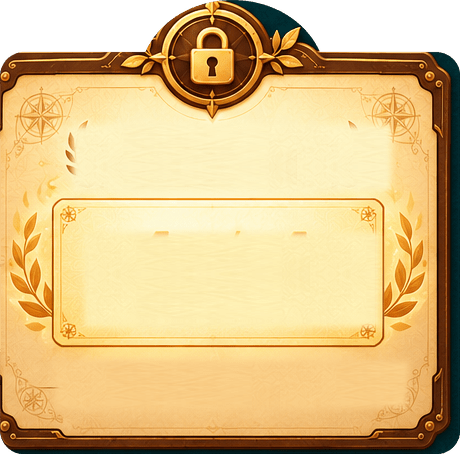
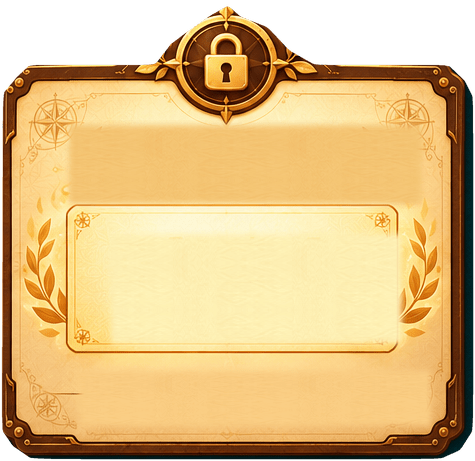
fix(ui): restore result panels and align guess feedback content

diff --git a/assets/scripts/GameApp.ts b/assets/scripts/GameApp.ts
@@ -297,20 +297,20 @@ export class GameApp extends Component {
     const available = this.screenHeight - this.layoutTop - bottomSafeInset() - 24;
     const opponent = event.kind === 'opponent', own = event.kind === 'own';
     // Opponent feedback occupies the opponent seat, above the record sheet.
-    const battleScale = Math.min(750 / 941, (available + 8) / 1590);
+    const battleScale = Math.min(750 / 941, (available + 8) / 1750);
     const group = this.feedbackArt.group(this.effects, 'GuessFeedback', this.screenHeight / 2 - this.layoutTop - (opponent ? 160 * battleScale : available * .29), opponent ? battleScale : Math.min(1, available / 1100));
     if(opponent) { group.setPosition(110*battleScale,group.position.y);group.setScale(battleScale*600/650,battleScale*600/650,1);this.opponentFeedbackActive=true;this.setOpponentSeatVisible(false); }
     const width = own ? 430 : event.kind === 'end' ? 480 : 650;
     if (this.feedbackArt.ready) {
       this.feedbackArt.image(group, event.art, 0, 0, width);
       if (own) {
-        this.feedbackArt.label(group, event.title, 0, -94, 335, 50, 29);
-        const value = this.feedbackArt.label(group, pending ? '···' : `${event.hits} / 4`, 0, 40, 310, 100, 68);
+        this.feedbackArt.label(group, event.title, 0, -52, 335, 50, 34).isBold=true;
+        const value = this.feedbackArt.label(group, pending ? '···' : `${event.hits} / 4`, 0, 50, 310, 112, 80);
         value.font = this.friendDigitFont ?? null;
-        this.feedbackArt.label(group, event.caption, 0, 126, 354, 58, 22);
+        this.feedbackArt.label(group, event.caption, 0, 158, 330, 38, 22);
       } else if (opponent) {
         const peer = this.net.state?.room?.players.find(p => p.id !== this.net.state?.me.id);
-        if (peer) this.playerPortrait(group, peer, -230, -15, 92);
+        if (peer) this.playerPortrait(group, peer, -210.6, -7.3, 100, false);
         const value = this.feedbackArt.label(group, `${event.hits} / 4`, 24, -8, 285, 96, 68, event.urgent ? '#751F23' : C.ink);value.font = this.friendDigitFont ?? null;
       } else if (event.kind === 'end') {
         // The fixed success/failure heading remains in the artwork. Overlay actual reason below.
@@ -993,8 +993,8 @@ export class GameApp extends Component {
       art('home',0,860,420,home);return;
     }
     const win=r.result?.winner===me, draw=!r.result?.winner;
-    art(draw?'draw-title':win?'victory-title':'defeat-title',0,win||draw?180:200,draw?550:win?500:750);
-    if((!win&&!draw)||(!r.rematch.includes(me)&&!this.rematchNotice))label(resultCaption(r,me),0,!win&&!draw?318:380,650,50,28).color=new Color(!win&&!draw?C.ink:C.cream);
+    art(draw?'draw-title':win?'victory-title':'defeat-title',0,win?200:draw?180:200,draw?550:win?530:750);
+    if(!draw||(!r.rematch.includes(me)&&!this.rematchNotice))label(resultCaption(r,me),0,win?316:!draw?318:380,win?430:650,50,28).color=new Color(!draw?C.ink:C.cream);
     if(r.rematch.includes(me)||this.rematchNotice) {
       const key=this.rematchNotice.includes('离开')?1:this.rematchNotice?2:0;
       art('rematch-'+key,0,850,730);
@@ -1005,12 +1005,12 @@ export class GameApp extends Component {
     art('result-paper',0,810,840);
     const peer=r.players.find(p=>p.id!==me);
     const count=(id:string)=>r.history.filter(h=>h.playerId===id&&h.digits!==null).length;
-    label(`我的猜测      ${count(me)} 次`,0,620,700,70,35);
-    label(`对手猜测      ${count(peer?.id??'')} 次`,0,720,700,70,35);
-    label('我的底牌',-260,870,200,70,30);label('对手密码',-260,1010,200,70,30);
-    for(const [digits,y] of [[r.ownSecret??'',870],[r.revealed?.[peer?.id??'']??'',1010]] as const) {
+    label('我的猜测',-210,596,250,60,32);label(`${count(me)} 次`,235,596,150,60,36);
+    label('对手猜测',-210,688,250,60,32);label(`${count(peer?.id??'')} 次`,235,688,150,60,36);
+    label('我的底牌',-230,830,200,70,30);label('对手密码',-230,998,200,70,30);
+    for(const [digits,y] of [[r.ownSecret??'',830],[r.revealed?.[peer?.id??'']??'',998]] as const) {
       for(let i=0;i<4;i++) {
-        const x=-75+i*116;
+        const x=-62+i*111;
         const n=this.feedbackArt.group(group,'ResultDigit',-y);n.setPosition(x,-y);
         const sprite=n.addComponent(Sprite);sprite.spriteFrame=this.battleArt.get('card-paper')??this.joinArt.get('digit-slot')??null;sprite.sizeMode=Sprite.SizeMode.CUSTOM;n.getComponent(UITransform)!.setContentSize(98,125);
         const digit=label(digits[i]??'—',x,y,90,110,72);digit.font=this.friendDigitFont??null;
@@ -1056,12 +1056,13 @@ export class GameApp extends Component {
     return fallback;
   }
   /** Reuse the same circular identity in the opponent seat and transient feedback. */
-  private playerPortrait(parent: Node, profile: { avatar: number; avatarUrl?: string }, x: number, y: number, size: number) {
+  private playerPortrait(parent: Node, profile: { avatar: number; avatarUrl?: string }, x: number, y: number, size: number, showRim = true) {
     const clip = this.n('PlayerPortrait',375,667,size,size,parent);clip.setPosition(x,y);
     clip.addComponent(Mask).type = Mask.Type.GRAPHICS_ELLIPSE;
     const face = this.n('PlayerPortraitImage',375,667,size,size,clip);face.setPosition(0,0);
     const sprite = face.addComponent(Sprite);sprite.spriteFrame = this.avatarFrame(profile) ?? null;sprite.sizeMode = Sprite.SizeMode.CUSTOM;
     face.getComponent(UITransform)!.setContentSize(size,size);
+    if(!showRim)return;
     const rim = this.n('PlayerPortraitRim',375,667,size*1.1,size*1.1,parent);rim.setPosition(x,y);
     const frame = rim.addComponent(Sprite);frame.spriteFrame=this.profileArt.get('portrait-frame')??null;frame.sizeMode=Sprite.SizeMode.CUSTOM;
     rim.getComponent(UITransform)!.setContentSize(size*1.1,size*1.1);

diff --git a/assets/scripts/shared/feedback-art.ts b/assets/scripts/shared/feedback-art.ts
@@ -5,8 +5,8 @@ export const FEEDBACK_SIZES: Record<string, readonly number[]> = {
     454
   ],
   "own-gold": [
-    460,
-    454
+    475,
+    461
   ],
   "opponent-0": [
     665,
@@ -102,7 +102,7 @@ export const FEEDBACK_SIZES: Record<string, readonly number[]> = {
   ],
   "result-paper": [
     840,
-    807
+    837
   ],
   "records": [
     380,
@@ -137,8 +137,8 @@ export const FEEDBACK_SIZES: Record<string, readonly number[]> = {
     466
   ],
   "victory-title": [
-    552,
-    345
+    590,
+    454
   ],
   "rematch-0": [
     506,

diff --git a/scripts/repair-result-feedback.py b/scripts/repair-result-feedback.py
@@ -1,0 +1,47 @@
+"""Targeted source recuts and documented same-art texture repairs."""
+from pathlib import Path
+from PIL import Image,ImageDraw,ImageFilter,ImageStat,ImageChops
+import json,re,imagequant
+R=Path(__file__).resolve().parents[1];D=R/'docs/design/result-feedback-fix';O=R/'assets/resources/art/feedback'
+plan={'victory-title':{'source':'12-end-feedback.png','rect':[22,130,612,584],'role':'complete crown and victory panel; native reason'},'result-paper':{'source':'06-defeat-result.png','rect':[48,451,888,1288],'role':'complete recap with original row frames; native counts/cards; top rail reconstructed from own bottom rail'},'own':{'source':'01-own-feedback.png','rect':[542,30,1002,484],'role':'lock panel with cleared title, score and footer'},'own-gold':{'source':'01-own-feedback.png','rect':[1026,509,1501,970],'role':'gold lock panel; native title, score and footer'}}
+(D/'manifest.json').write_text(json.dumps({'coordinates':'LTRB source pixels; curved masks supersampled 4x; patches use same-art paper samples, not lossless extraction','assets':plan,'opponent':'Use baked portrait rim only. Insert circular live face at source-relative (117,139), not an extra rim.','layout':'Own title -52, score 50, footer 158 in 430px panel. Result labels align to original recap rows.'},indent=2)+'\n')
+def patch(im,box,sample):
+ a=Image.new('L',(box[2]-box[0],box[3]-box[1]),0);ImageDraw.Draw(a).rectangle((5,5,a.width-6,a.height-6),fill=255);a=a.filter(ImageFilter.GaussianBlur(3));p=sample.resize(a.size,Image.Resampling.BICUBIC);target=ImageStat.Stat(im.crop((box[0],box[1],box[0]+8,box[1]+8))).mean;mean=ImageStat.Stat(p).mean
+ for channel in range(3):
+  band=p.getchannel(channel).point(lambda v,c=channel:max(0,min(255,round(v+target[c]-mean[c]))))
+  bands=list(p.split());bands[channel]=band;p=Image.merge('RGBA',bands)
+ im.paste(p,box[:2],a)
+def mask(im,points):
+ m=Image.new('L',(im.width*4,im.height*4));d=ImageDraw.Draw(m);pts=[]
+ for i,(x,y) in enumerate(points):
+  prev=points[i-1];nxt=points[(i+1)%len(points)];a=(x+(prev[0]-x)*.12,y+(prev[1]-y)*.12);b=(x+(nxt[0]-x)*.12,y+(nxt[1]-y)*.12)
+  for j in range(9):
+   t=j/8;pts.append((4*((1-t)**2*a[0]+2*(1-t)*t*x+t*t*b[0]),4*((1-t)**2*a[1]+2*(1-t)*t*y+t*t*b[1])))
+ d.polygon(pts,fill=255);im.putalpha(m.resize(im.size,Image.Resampling.LANCZOS))
+for key,item in plan.items():
+ src=Image.open(R/'docs/design/feedback-v1'/item['source']).convert('RGBA');im=src.crop(item['rect']);w,h=im.size
+ if key=='victory-title':
+  patch(im,(116,331,479,387),im.crop((78,303,114,355)))
+  mask(im,[(0,132),(15,112),(27,109),(34,87),(52,80),(148,80),(157,45),(172,71),(187,31),(197,55),(218,26),(258,10),(284,10),(293,0),(301,13),(338,24),(364,37),(379,69),(403,31),(414,60),(428,73),(441,80),(539,80),(558,90),(562,109),(581,120),(588,140),(588,403),(575,424),(561,430),(552,448),(35,448),(22,433),(7,422),(0,403)])
+ elif key=='result-paper':
+  # Restore the obscured top rail, retaining the original heading and all four row frames.
+  im.paste(im.crop((0,h-40,w,h)).transpose(Image.Transpose.FLIP_TOP_BOTTOM),(0,0))
+  clean=Image.open(D/'paper-master.png').convert('RGBA').crop((120,240,700,360))
+  for box in [(101,170,747,235),(101,263,747,327),(298,368,755,506),(298,535,755,672),(230,700,630,813)]:patch(im,box,clean)
+  # Clear baked left row labels too, then render consistent native typography.
+  for box in [(100,405,292,470),(100,572,292,638)]:patch(im,box,clean)
+  mask(im,[(2,39),(15,29),(20,10),(40,1),(799,1),(821,13),(825,30),(839,39),(839,795),(825,814),(811,835),(27,835),(12,819),(1,798)])
+ else:
+  # Crop-relative clear zones retain ornamental borders, lock and score inset.
+  clean=Image.open(D/'paper-master.png').convert('RGBA').crop((120,240,700,360))
+  boxes=[(76,132,389,203),(92,223,393,343),(60,360,422,425)] if key=='own' else [(64,120,427,209),(106,229,407,349),(74,366,436,431)]
+  for box in boxes:patch(im,box,clean)
+  mask(im,[(3,87),(17,72),(27,59),(143,59),(157,44),(166,37),(176,42),(183,21),(204,10),(218,8),(226,0),(234,11),(257,20),(274,37),(281,48),(300,39),(314,59),(431,59),(447,73),(458,88),(458,421),(447,440),(429,451),(30,451),(13,439),(2,423)] if key=='own' else [(3,94),(17,77),(30,65),(155,65),(171,44),(190,30),(213,14),(228,6),(241,17),(267,27),(290,51),(315,65),(448,65),(465,81),(473,98),(473,430),(460,450),(440,459),(32,459),(13,446),(2,430)])
+ q=imagequant.quantize_pil_image(im,max_colors=256,min_quality=80,max_quality=95);q.save(O/(key+'.png'),optimize=True)
+ item['size']=list(im.size)
+ p=R/'assets/scripts/shared/feedback-art.ts';s=p.read_text();s=re.sub(r'("'+key+r'": \[)\s*\d+,\s*\d+',lambda m:m[1]+f'\n    {w},\n    {h}',s);p.write_text(s)
+for bg,name in [('#173e3c','dark'),('#eee3ce','light')]:
+ sheet=Image.new('RGB',(1000,1100),bg)
+ for i,key in enumerate(plan):
+  im=Image.open(O/(key+'.png')).convert('RGBA');im.thumbnail((470,510));sheet.paste(im,((i%2)*500,(i//2)*550),im)
+ sheet.save(D/(name+'.jpg'),quality=92)

diff --git a/docs/design/result-feedback-fix/README.md b/docs/design/result-feedback-fix/README.md
@@ -1,0 +1,10 @@
+# 结算和猜测反馈切图修复
+
+遵循项目 design-ui-reconstruction：复用已批准源图的完整边框、皇冠、锁徽和统计分区。素材清单先写于 manifest.json，脚本为 scripts/repair-result-feedback.py。
+
+- victory-title：从 12-end-feedback.png 提取完整皇冠与面板，替换之前横切中断的下边框；结果原因由原生文字填写。
+- result-paper：从 06-defeat-result.png 恢复四个原稿分区，保留边框，移除样例次数、底牌及旧按钮。被标题遮挡的顶边用本面板底边翻转修复；动态留白以同源纸纹补齐并匹配边缘颜色，不称为无损切图。paper-master.png 为改动前的干净纸纹参考，不进入游戏包。
+- own / own-gold：重新清理标题、命中数字、底部提示区域；保留完整锁徽、边框和计分区。运行时标题位于 -52、分数 50、提示 158，形成明确层次。
+- 对手头像：原反馈图已包含金色头像框，运行时仅插入圆形头像，中心按原稿映射至 (-210.6, -7.3)，不再额外叠加另一套头像框。小屏反馈缩放与现有对局布局一致。
+
+原有资源 .meta 和 UUID 保持不变。dark.jpg / light.jpg 是素材深浅底检查图；实际游戏截图见 docs/verification/result-feedback-fix/。

diff --git a/docs/verification/result-feedback-fix/README.md b/docs/verification/result-feedback-fix/README.md
@@ -1,0 +1,10 @@
+# 胜败结算与猜测反馈验证
+
+全部图片来自实际构建的 Cocos Web 画面，使用独立测试数据。
+
+- 胜利、失败、超时获胜：完整标题、真实结果原因、同一回顾面板和对齐的统计行/底牌区。
+- 我的猜测 0–4：标题与锁徽分离、命中数字居中、底部提示独立留白；金色状态覆盖最长补猜提示。
+- 对手猜测 0–4：头像对齐原稿圆框，不再重复头像框。
+- 短屏胜利页：390×600 安全布局。
+
+运行脚本：scripts/verify-result-feedback.cjs。53 项测试与服务端/客户端类型检查通过。微信导出 build/wechatgame/；未执行微信真机测试、部署或正式发布。
